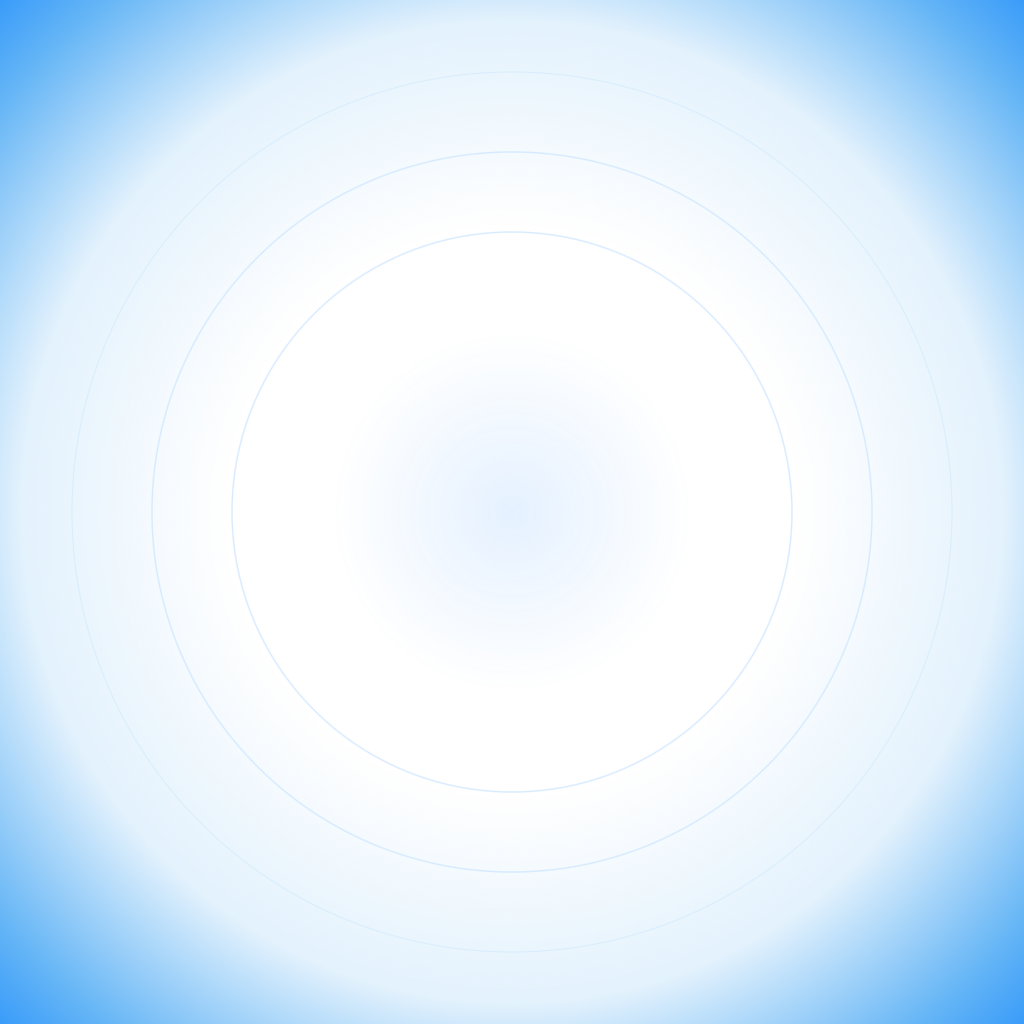
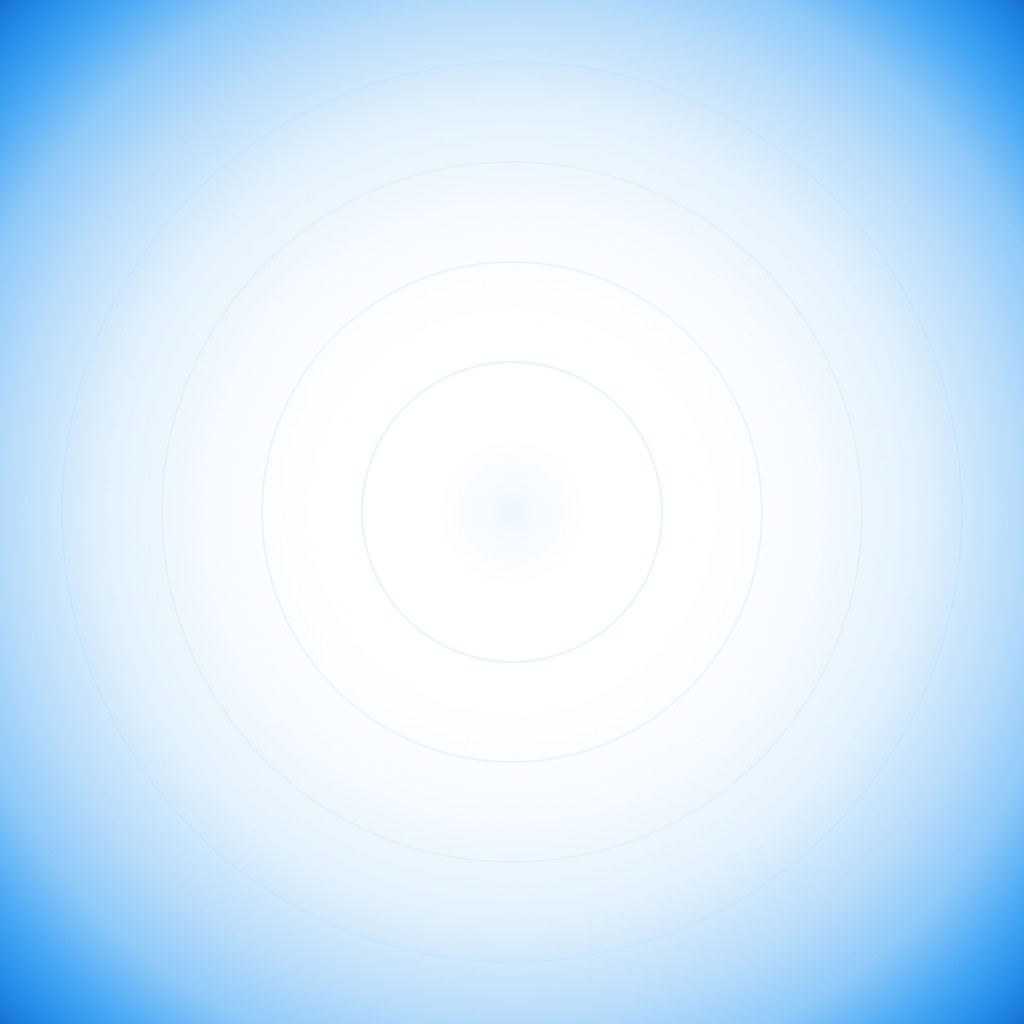
명상 생활 앱 아이콘 교체 및 표시 스타일 정리
Made-with: Cursor

diff --git a/index.html b/index.html
@@ -23,7 +23,7 @@
       --card-min-height: 7.75rem;
       --card-thumb-w: 9rem;
       --card-body-pad-x: 1rem;
-      --card-app-icon-size: 4.35rem;
+      --card-app-icon-size: 4.85rem;
     }
     * { box-sizing: border-box; }
     body {
@@ -126,31 +126,37 @@
     }
     .card-app-icon {
       flex: 0 0 auto;
+      box-sizing: border-box;
       width: var(--card-app-icon-size);
       height: var(--card-app-icon-size);
-      border-radius: 1.02rem;
+      padding: 0.38rem;
+      border-radius: 1.12rem;
       overflow: hidden;
       background: #0a0c10;
       border: 1px solid rgba(255, 255, 255, 0.08);
+      display: flex;
+      align-items: center;
+      justify-content: center;
     }
     .card-app-icon img {
       display: block;
       width: 100%;
       height: 100%;
+      object-fit: contain;
       object-position: center;
       transform: none;
     }
     .card--app-ant .card-app-icon {
       background: #000;
     }
-    .card--app-ant .card-app-icon img {
-      object-fit: contain;
-    }
+    /* 명상: 완성된 앱 아이콘 PNG만 보이게 (배경·안쪽 여백 중복 제거) */
     .card--app-mantra .card-app-icon {
-      background: radial-gradient(circle at 50% 42%, #ffffff 0%, #d4e4fb 55%, #a8c4ef 100%);
+      padding: 0;
+      background: transparent;
+      border-color: rgba(255, 255, 255, 0.1);
     }
     .card--app-mantra .card-app-icon img {
-      object-fit: contain;
+      object-fit: cover;
     }
     .card-thumb {
       flex: 0 0 var(--card-thumb-w);
